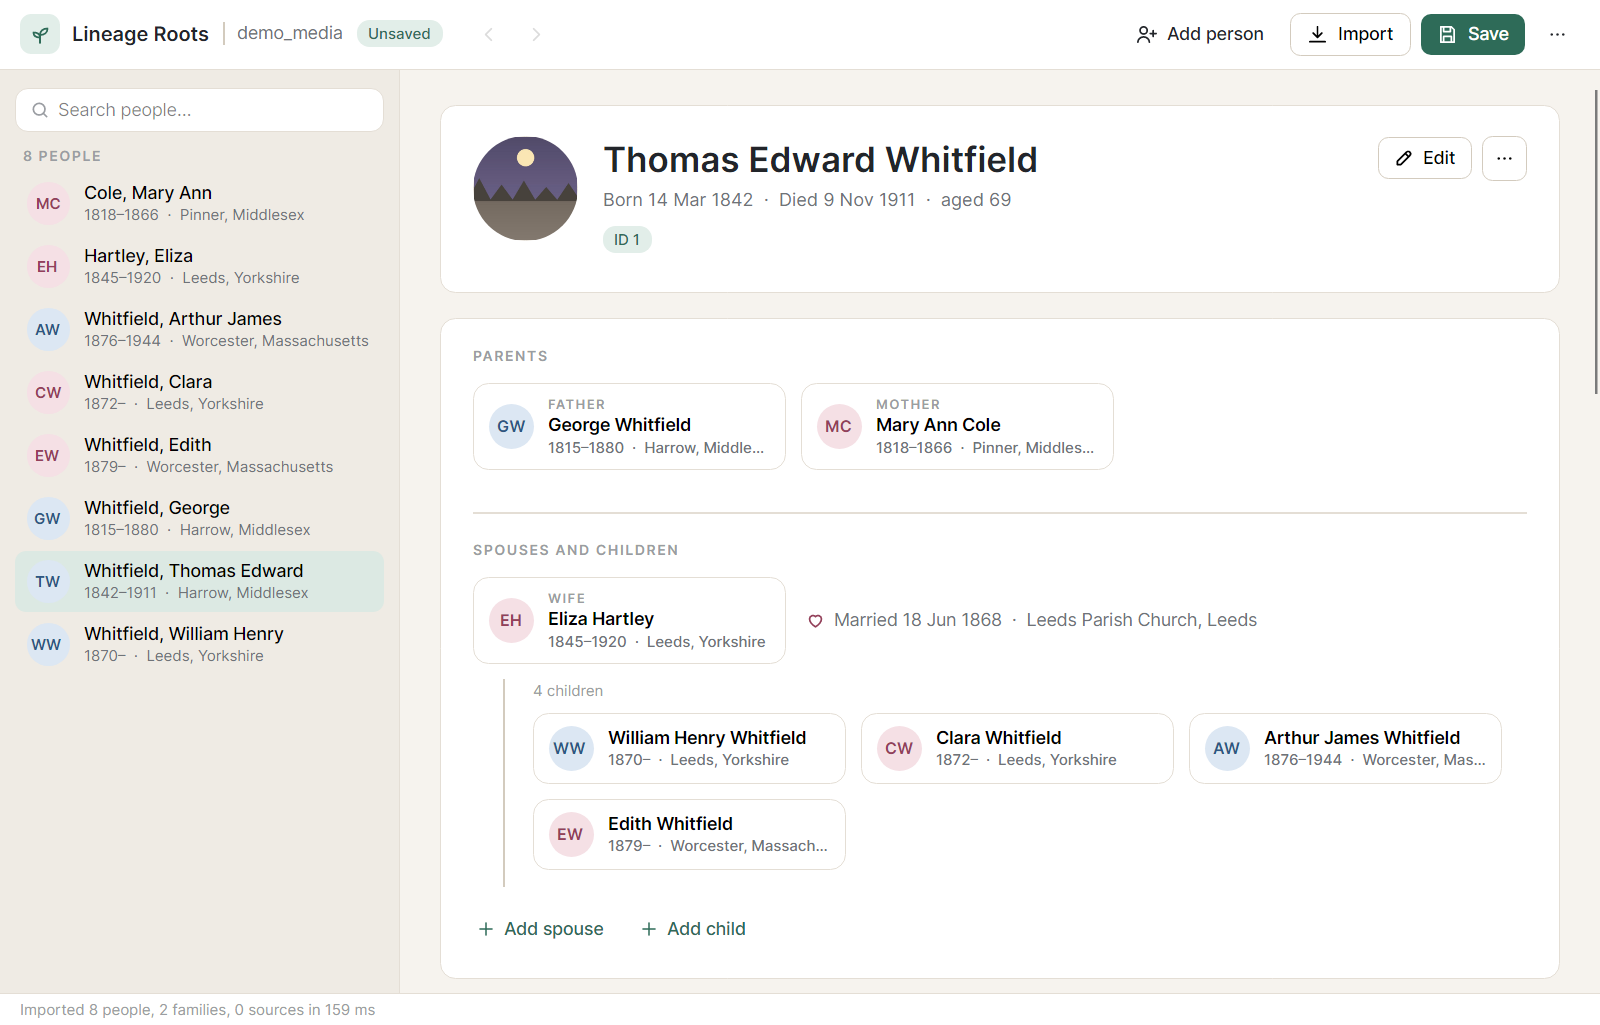
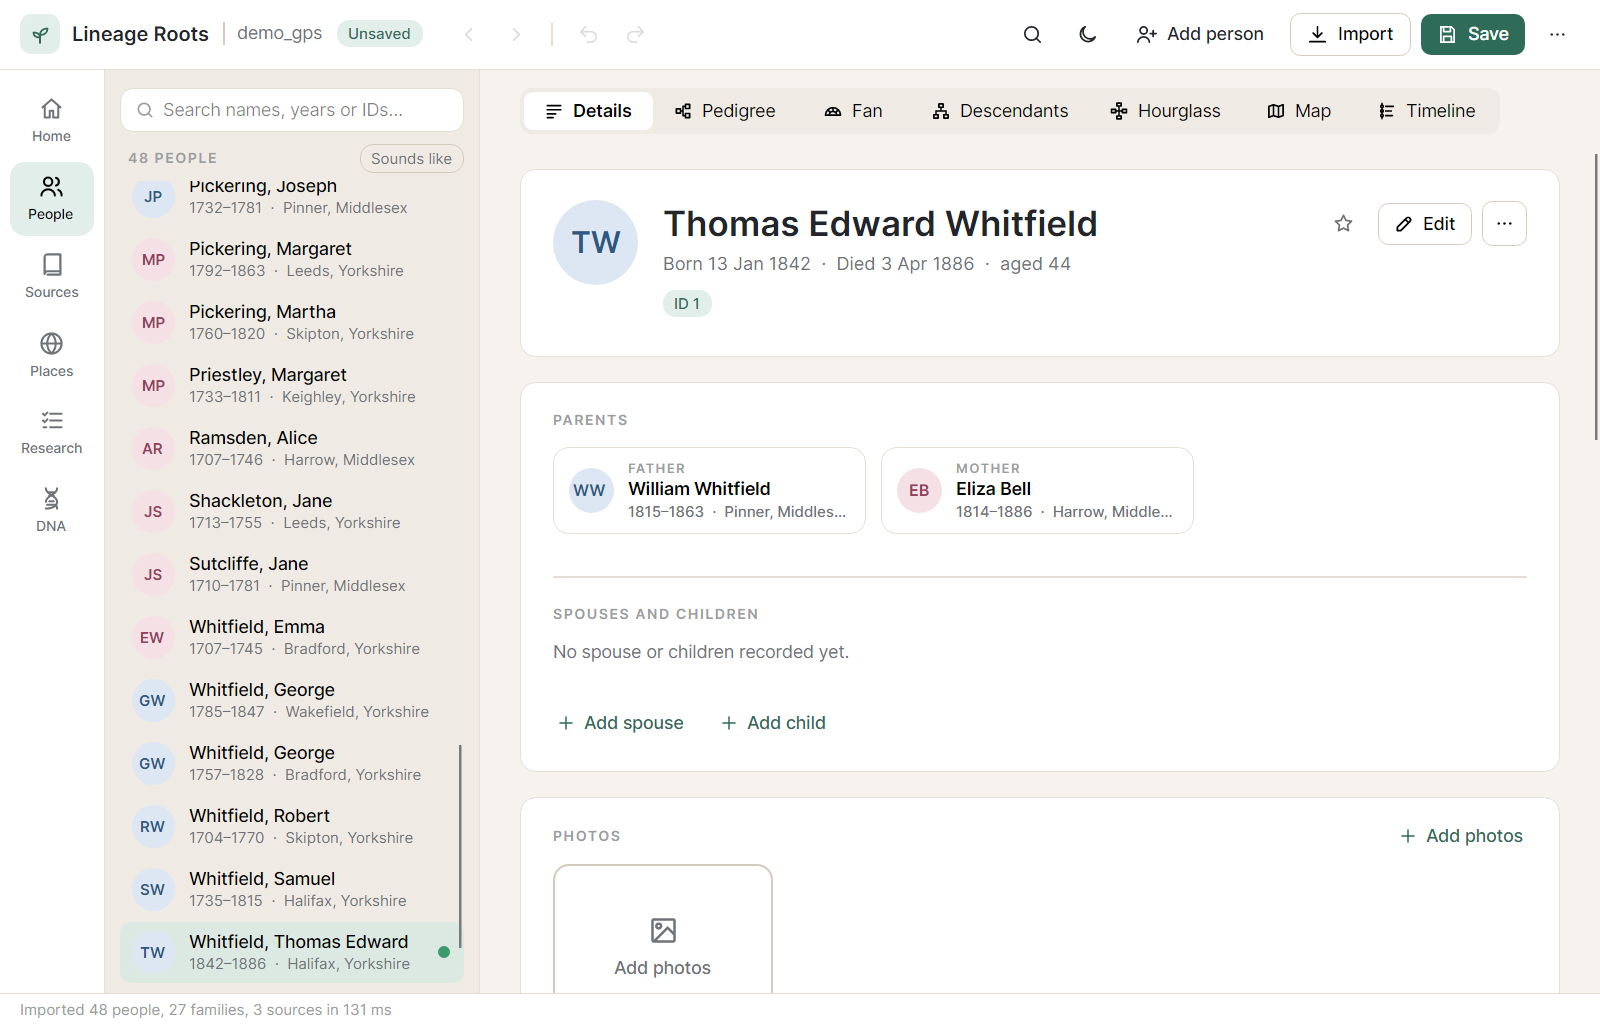
Update the README for 0.2.1
Download and update instructions, what the program sends online, screenshots
of the new features (from an invented demo family), how to make a release the
updater will find, the current project layout, roadmap and font licence.

diff --git a/README.md b/README.md
@@ -4,8 +4,37 @@ A free, cross-platform family history program, with its source code published fo
 directly. You don't need AQ installed and you don't need to export from it first. It also reads and writes
 **GEDCOM 5.5.1**, so it works with every other genealogy program.
 
-> Status: **0.1, early development.** Everything listed below works and is covered by automated tests. The
+> Status: **0.2.1, early development.** Everything listed below works and is covered by automated tests. The
 > FamilySearch features need an app key and have only been tested against simulated responses so far.
+
+![A person's page](docs/screenshots/person-light.png)
+
+## Download
+
+Get the latest version from the [Releases page](https://github.com/LordDeTracy/lineageroots/releases/latest):
+
+| System | File |
+|---|---|
+| Windows 10/11 (64-bit) | `LineageRoots-<version>-win-x64.zip` — unzip and run `LineageRoots.exe` |
+| Linux (64-bit) | `LineageRoots-<version>-linux-x64.tar.gz` — extract and run `./LineageRoots` |
+
+- The program is a single file: nothing to install, no .NET to download, no folders to keep beside it.
+- Keep it somewhere you can write to (Documents or Desktop, not Program Files) so it can update itself.
+- Windows may say *"Windows protected your PC"* because the program isn't code-signed yet — choose
+  **More info → Run anyway**.
+- **It updates itself** from version 0.2.1 on: when a new version is released it asks whether to update, then
+  downloads it, checks it and restarts. If you have 0.2 or 0.1.0, download the latest version by hand once.
+- The Windows build is the one that is run and tested; the Linux build comes from the same code but hasn't been
+  tried on a Linux machine yet.
+
+## Your data stays yours
+
+Everything is kept on your computer. Your AQ or GEDCOM file is never changed — Lineage Roots imports a copy and
+saves its own `.lineage` file. The program only goes online for three things, and never sends family details:
+
+- **Street maps**: map pictures from OpenStreetMap for the area you're looking at (can be turned off in Settings)
+- **Update check**: asks GitHub whether there's a newer version (can be turned off in Settings)
+- **FamilySearch**: only if you set it up and sign in
 
 ## Why
 
@@ -21,7 +50,16 @@ directly. You don't need AQ installed and you don't need to export from it first
   - scrapbook links, research items, tags, colours, DNA results, FamilySearch IDs
   - deleted records are recognised and skipped.
 
-## Features (0.1)
+## Features
+
+| | |
+|---|---|
+| ![Timeline and census checklist](docs/screenshots/timeline-light.png) | ![Suggested next steps](docs/screenshots/suggested-dark.png) |
+| Life timeline with history and a census checklist | Suggested next steps for your ancestors |
+| ![Pedigree coloured by evidence](docs/screenshots/evidence-pedigree-light.png) | ![DNA match clusters](docs/screenshots/dna-clusters-light.png) |
+| Pedigree coloured by how well each person is proven | DNA match clusters |
+| ![Family map through time](docs/screenshots/map-timeline-light.png) | ![Reviewing a relative's changes](docs/screenshots/review-light.png) |
+| The family map, played through the years | Reviewing a relative's changes |
 
 **Your tree**
 - Import AQ 16 (`.aq`) and GEDCOM 5.5 / 5.5.1 (`.ged`), including AQ's custom tags; export GEDCOM 5.5.1
@@ -127,14 +165,36 @@ dotnet test
 
 To open a file at startup, pass its path: `dotnet run --project src/Lineage.App -- family.aq`
 
+### Making a release
+
+The app updates itself from this repository's GitHub releases, so a release needs files named the same way each
+time. Set `<Version>` in `src/Lineage.App/Lineage.App.csproj`, then build the single-file programs:
+
+```bash
+dotnet publish src/Lineage.App -c Release -r win-x64 --self-contained true -p:PublishSingleFile=true -p:IncludeNativeLibrariesForSelfExtract=true -p:DebugType=none -o publish/win-x64
+```
+
+```bash
+dotnet publish src/Lineage.App -c Release -r linux-x64 --self-contained true -p:PublishSingleFile=true -p:IncludeNativeLibrariesForSelfExtract=true -p:DebugType=none -o publish/linux-x64
+```
+
+Package them as `LineageRoots-<version>-win-x64.zip` and `LineageRoots-<version>-linux-x64.tar.gz` (keeping the
+Linux program executable), with `LICENSE`, a `README.txt` and the Lato font's licence (`OFL.txt` from the QuestPDF
+package) beside the program. Publish a GitHub release tagged `v<version>` with both attached; the app finds it,
+checks the download against the SHA-256 GitHub records for each uploaded file, and offers it. Drafts and
+pre-releases aren't offered.
+
 ## Layout
 
 | Project | Contents |
 |---|---|
-| `src/Lineage.Core` | the model (`FamilyTree`, `Person`, `Family`, `Event`, `GenDate`…), SQLite storage, AQ and GEDCOM import, GEDCOM export |
-| `src/Lineage.App` | the Avalonia desktop app (MVVM, CommunityToolkit.Mvvm) |
-| `tests/Lineage.Core.Tests` | xUnit tests for the format, storage, GEDCOM, undo, merging, duplicates and FamilySearch data |
+| `src/Lineage.Core` | the model (`FamilyTree`, `Person`, `Family`, `Event`, `GenDate`…), SQLite storage, AQ and GEDCOM import, GEDCOM export, and the analysis behind the features: duplicates, problems, places, relationships and evidence (`Analysis`), timelines, censuses, history and research suggestions (`History`), DNA inheritance model, odds and clustering (`Dna`), sharing with relatives (`Sharing`), reports and the family website |
+| `src/Lineage.App` | the Avalonia desktop app (MVVM, CommunityToolkit.Mvvm): pages, editors, charts, maps, PDF and Word reports, and the updater |
+| `tests/Lineage.Core.Tests` | xUnit tests for the format, storage, GEDCOM, undo, merging, analysis, history, DNA and sharing |
 | `tests/Lineage.App.Tests` | headless UI tests that drive the app's workflows (Avalonia.Headless) |
+
+The DNA model's table (`src/Lineage.Core/Dna/CmModelData.cs`) is generated by simulation; to regenerate it, run
+`dotnet test tests/Lineage.Core.Tests --filter RegenerateCmModel` with `LINEAGE_GENERATE_CM=20000` set.
 
 ### Tests and private sample data
 
@@ -161,6 +221,9 @@ GEDCOM first.
 - Record hints and FamilySearch upload (deliberately not started yet)
 - Per-change history saved inside the file (undo currently lasts for the session)
 - GEDCOM media records referenced by pointer (`0 @M1@ OBJE`)
+- Password-protected tree files
+- Faces spotted in group photos, to speed up tagging
+- Code-signed Windows builds, and a macOS build
 
 ## License
 
@@ -174,4 +237,5 @@ the strict sense of the Open Source Definition.
 
 Lineage Roots uses these libraries, each under its own licence: Avalonia, CommunityToolkit.Mvvm,
 Microsoft.Data.Sqlite and DocumentFormat.OpenXml (MIT), MetadataExtractor (Apache 2.0) and QuestPDF
-(QuestPDF Community License).
+(QuestPDF Community License). The Lato font built into the program for reports is used under the SIL Open Font
+License 1.1. Street maps are © OpenStreetMap contributors.
